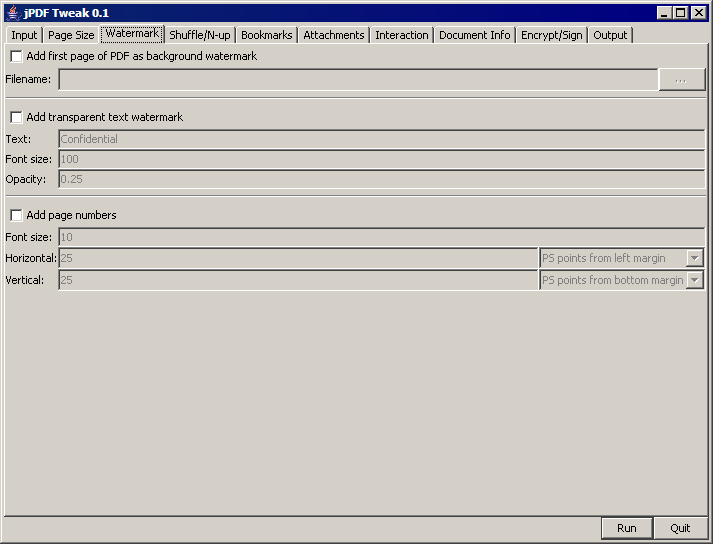
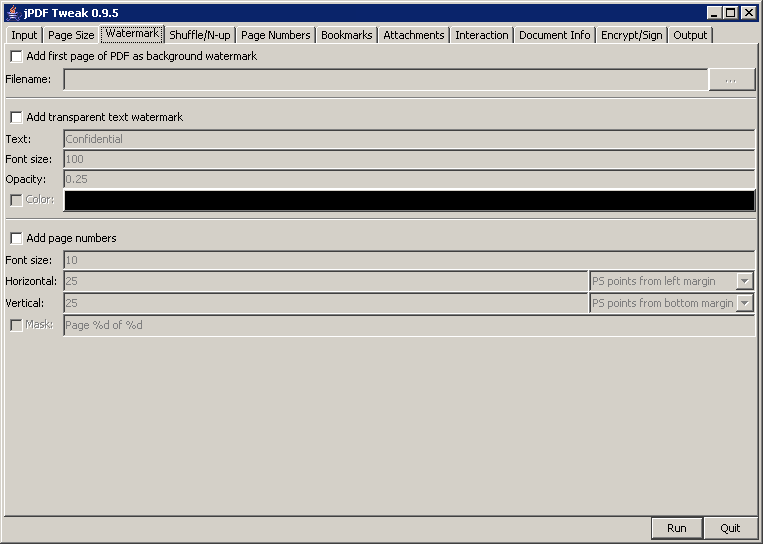
update screenshots

Changed region(s): [[0.0, 0.0, 1.0, 1.0], [0.8331, 0.9375, 0.9565, 1.0], [0.9257, 0.125, 0.9565, 0.1562]]

diff --git a/jpdftweak/manual/index.html b/jpdftweak/manual/index.html
@@ -33,7 +33,7 @@ or running</p>
   finished setting options.</p>
 
 <h3>The Input Tab</h3>
-<p><img src="shot01.png" width="713" height="544" alt="Input Options"></p>
+<p><img src="shot01.png" width="763" height="544" alt="Input Options"></p>
 
 <p>Select an input file to manipulate. If you want to combine multiple
   files, check the checkbox and add more files. They will end up in
@@ -49,7 +49,7 @@ or running</p>
   (like programmers count).</p>
 
 <h3>The Page Size Tab</h3>
-<p><img src="shot02.png" width="713" height="544" alt="Page Size Options"></p>
+<p><img src="shot02.png" width="763" height="544" alt="Page Size Options"></p>
 
 <p><b>Rotate Pages</b>: If you have a PDF that has both Portrait and Landscape pages, and
   your printer has problems in printing both, you can rotate the pages
@@ -84,7 +84,7 @@ or running</p>
 
 
 <h3>The Watermark Tab</h3>
-<p><img src="shot03.png" width="713" height="544" alt="Watermark Options"></p>
+<p><img src="shot03.png" width="763" height="544" alt="Watermark Options"></p>
 
 <p>Here you can add two kinds of watermarks and page numbers. The text
   watermark appears on top of the content, the PDF watermark on
@@ -102,7 +102,7 @@ function</a>, and supports the current page number and the total
 number of pages as parameters.</p>
 
 <h3>The Shuffle/N-up Tab</h3>
-<p><img src="shot04.png" width="713" height="544" alt="Shuffle/N-up Options"></p>
+<p><img src="shot04.png" width="763" height="544" alt="Shuffle/N-up Options"></p>
 
 <p>This might be the most powerful, and the most complex tab. Choose
   a preset and stick with it <tt>:-)</tt></p>
@@ -134,7 +134,7 @@ number of pages as parameters.</p>
   correct.</p>
 
 <h3>The Page Numbers Tab</h3>
-<p><i>(No screenshot available)</i></p>
+<p><img src="shot04a.png" width="763" height="544" alt="Shuffle/N-up Options"></p>
 
 <p>Here you can tweak the page numbers that appear in your PDF
 reader. Depending on your PDF reader, they can be used for displaying
@@ -172,7 +172,7 @@ Reader don't really like that. You can work around it by setting a
 prefix for these pages or use different number styles.</p>
 
 <h3>The Bookmarks Tab</h3>
-<p><img src="shot05.png" width="713" height="544" alt="Bookmark Options"></p>
+<p><img src="shot05.png" width="763" height="544" alt="Bookmark Options"></p>
 
 <p>Here you can tweak chapter bookmarks. If you selected more than one
 input file, chapter bookmarks will be combined automatically. But if
@@ -187,7 +187,7 @@ GhostScript) which shows coordinates when moving the cursor on a PDF
 file.</p>
 
 <h3>The Attachments Tab</h3>
-<p><img src="shot06.png" width="713" height="544" alt="Attachment Options"></p>
+<p><img src="shot06.png" width="763" height="544" alt="Attachment Options"></p>
 
 <p>Here you can add attachments and remove files you erroneously
   attached before. This view does not show which files have been
@@ -195,7 +195,7 @@ file.</p>
   viewer to save them and reattach them if necessary.</p>
 
 <h3>The Interaction Tab</h3>
-<p><img src="shot07.png" width="713" height="544" alt="Interaction Options"></p>
+<p><img src="shot07.png" width="763" height="544" alt="Interaction Options"></p>
 
 <p>This tab is interesting. When a PDF file is shown in full screen
   mode, pages can flip automatically and/or with a nice effect. Select
@@ -204,14 +204,14 @@ file.</p>
   the right.</p>
 
 <h3>The Document Info Tab</h3>
-<p><img src="shot08.png" width="713" height="544" alt="Document Info Options"></p>
+<p><img src="shot08.png" width="763" height="544" alt="Document Info Options"></p>
 
 <p>Here you can add information to the document info dictionary (shown
   when you open "Document summary"</p>
 
 
 <h3>The Encrypt/Sign Tab</h3>
-<p><img src="shot09.png" width="713" height="544" alt="Encrypt/Sign Options"></p>
+<p><img src="shot09.png" width="763" height="544" alt="Encrypt/Sign Options"></p>
 
 <p>Encrypting is quite standard nowadays, so I won't write much
   here. If you know the owner password, you may do everything with the
@@ -225,7 +225,7 @@ file.</p>
   from here.</p>
 
 <h3>The Output Tab</h3>
-<p><img src="shot10.png" width="713" height="544" alt="Output Options"></p>
+<p><img src="shot10.png" width="763" height="544" alt="Output Options"></p>
 
 <p>Don't forget this tab! Select an output filename here.</p>
 
